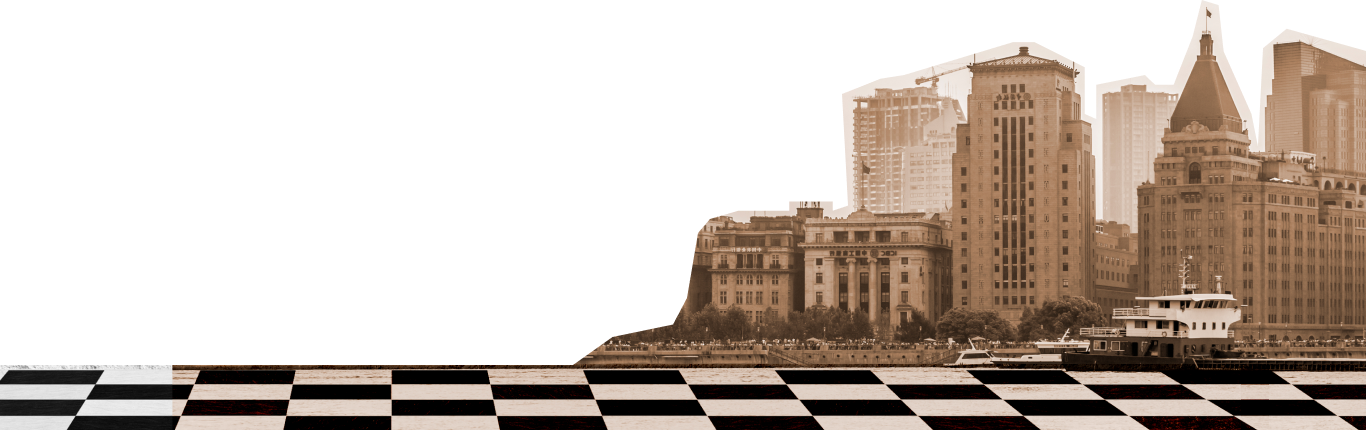
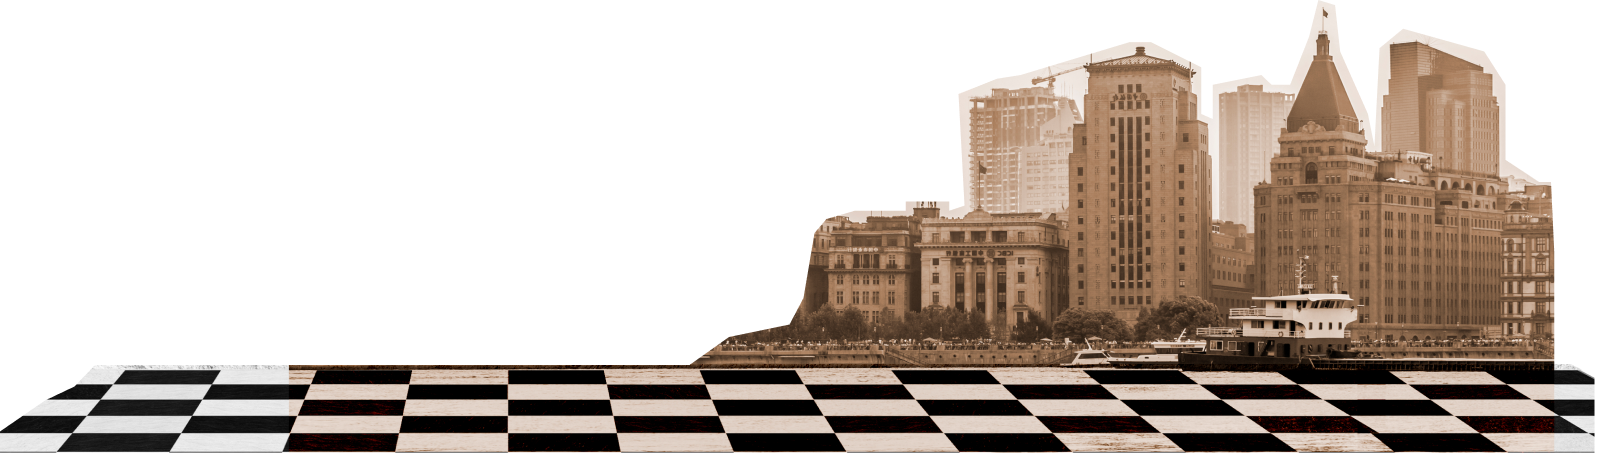
feat: add city image border

diff --git a/styles/main.css b/styles/main.css
@@ -214,6 +214,9 @@ body {
   z-index: 1;
 }
 .city {
+  filter: drop-shadow(8px 0px 0px white) drop-shadow(-8px 0px 0px white)
+    drop-shadow(0px 8px 0px white) drop-shadow(0px -8px 0px white);
+
   max-width: 200vw;
   position: absolute;
   bottom: 0;
@@ -263,9 +266,25 @@ body {
   .hero__container_desc {
     text-align: center;
   }
+
+  .sun {
+    max-width: 660px;
+    position: absolute;
+    top: -6rem;
+    left: 50%;
+    z-index: 1;
+  }
+  .city {
+    position: absolute;
+    bottom: 0;
+    z-index: 2;
+    left: 50%;
+    transform: translateX(-50%);
+  }
 }
 
 .hero-heading {
+  max-width: 335px;
   font-size: clamp(32px, 7vw, 3.825rem);
   font-weight: normal;
   text-align: center;

diff --git a/README.md b/README.md
@@ -1,1 +1,16 @@
-Yet Another Task!
+# 🧩 Yet Another Task! – Code Review & Improvements
+
+## 🔗 Project URL
+
+[https://moayadterro.github.io/chess/](https://moayadterro.github.io/chess/)
+
+## 🧠 What can be improved if you had more time?
+
+- 🎨 **Optimize HTML, CSS, JS** – minify, remove unused code, improve performance.
+- 🖼 **Use compressed WebP images** (recommended) – smaller file size, faster loading.
+- 🧩 **Create component-based code** – reusable CSS classes or JavaScript functions.
+- 🧼 **Improve CSS class naming** – use more elegant, semantic, BEM-like names.
+
+---
+
+> ✅ _Focus on maintainability, performance, and clean architecture._
